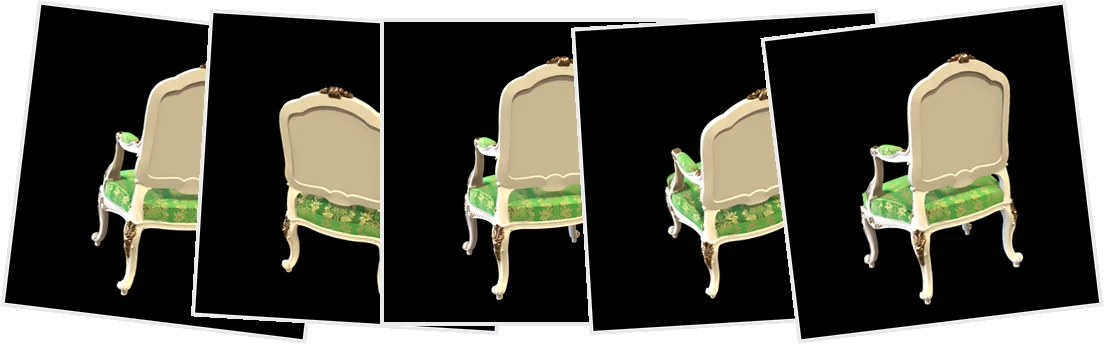
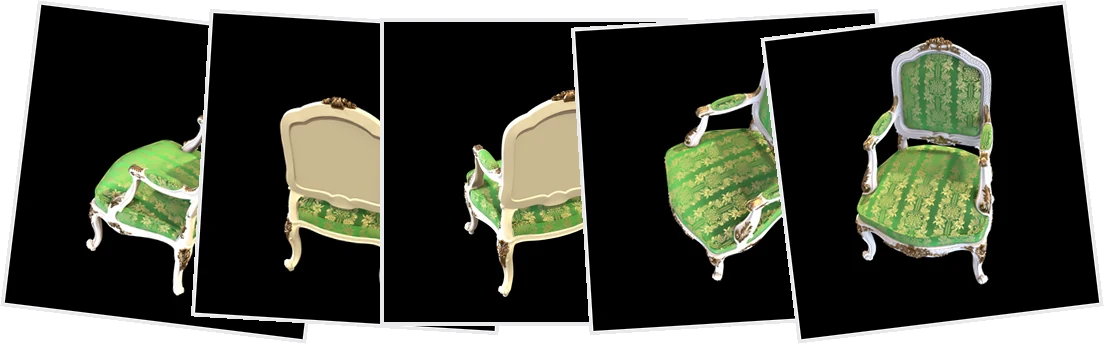
Apply EXIF orientation to the input stacks, and spread the picks
The framed painting's cards were on their side. The capture writes the sensor's
own landscape frame plus an Orientation tag, and PIL honours neither on its
own, so every portrait photo in that set came through rotated 90 degrees.
`ImageOps.exif_transpose` on the way in fixes it; the other three sets carry no
tag and are unchanged.

While there, the five cards were bunching: taking the top five by subject
coverage picks consecutive frames of a slow orbit, which score alike, so three
of the painting's cards were nearly the same view. Now the half that shows
least of the subject is dropped and five are taken evenly across what is left,
which keeps the near-empty NeRF frames out while still reading as a walk around
the subject.

The stack also gets a fixed 170px box rather than a fixed width. A portrait
capture makes a taller pile than a square NeRF frame, and letting the height
follow moved the stage down the page every time the subject changed.

Claude-Session: https://claude.ai/code/session_01U7wbbTcRuDo5rxkXFWPuBM

diff --git a/pages/index.html b/pages/index.html
@@ -41,7 +41,10 @@
   /* --- what it was made from, above what it became ----------------------- */
   figure { margin: 0 0 34px; }
   #provenance { display: grid; justify-items: center; gap: 6px; margin-bottom: 2px; }
-  #inputs { display: block; width: min(548px, 100%); height: auto; }
+  /* A fixed box, not a fixed width: the stacks differ in aspect (a portrait capture
+     makes a taller pile than a square NeRF frame) and letting the height follow makes
+     the stage jump every time the subject changes. */
+  #inputs { display: block; width: min(548px, 100%); height: 170px; object-fit: contain; }
   #capture { color: var(--muted); font: 11px/1.4 ui-monospace, SFMono-Regular, Menlo, Consolas, monospace; }
   #arrow { width: 22px; height: 30px; margin: 2px 0 4px; color: var(--muted); opacity: 0.7; }
 

diff --git a/tools/make_input_stacks.py b/tools/make_input_stacks.py
@@ -17,7 +17,7 @@ import argparse
 from pathlib import Path
 
 import numpy as np
-from PIL import Image
+from PIL import Image, ImageOps
 
 ROOT = Path(__file__).resolve().parent.parent
 DEFAULT_RUNS = ROOT.parent / "3d_recon_sh_texture" / "data" / "runs"
@@ -39,7 +39,10 @@ SUFFIXES = {".jpg", ".jpeg", ".png"}
 
 
 def load(path: Path) -> Image.Image:
-    image = Image.open(path)
+    # exif_transpose first: a phone writes the sensor's own landscape frame plus an
+    # Orientation tag, and PIL honours neither on its own - without this every portrait
+    # capture ends up on its side.
+    image = ImageOps.exif_transpose(Image.open(path))
     if image.mode not in ("RGBA", "LA", "P"):
         return image.convert("RGB")
     image = image.convert("RGBA")
@@ -51,7 +54,7 @@ def load(path: Path) -> Image.Image:
 def subject_score(path: Path) -> float:
     """How much subject a frame shows: matte coverage where there is one, else the
     spread of its luminance, which on these captures tracks the same thing."""
-    probe = Image.open(path)
+    probe = ImageOps.exif_transpose(Image.open(path))
     probe.thumbnail((160, 160), Image.NEAREST)
     if probe.mode in ("RGBA", "LA", "P"):
         return float(np.asarray(probe.convert("RGBA").getchannel("A"), dtype=np.float32).mean() / 255)
@@ -95,7 +98,13 @@ def main() -> None:
         # Score a spread of candidates rather than all of them: at 100 frames the
         # ranking is the same and it reads a twentieth of the pixels.
         probes = [files[round(i * (len(files) - 1) / 23)] for i in range(24)]
-        chosen = sorted(sorted(probes, key=subject_score, reverse=True)[: len(ANGLES)], key=files.index)
+        # Drop the half that shows least of the subject, then take five spread evenly
+        # across what is left. Taking the top five outright bunches them: consecutive
+        # frames of a slow orbit score alike, and five near-identical cards look like a
+        # mistake rather than a capture.
+        scores = sorted(probes, key=subject_score, reverse=True)
+        keep = sorted(scores[: max(len(ANGLES), len(scores) // 2)], key=files.index)
+        chosen = [keep[round(i * (len(keep) - 1) / (len(ANGLES) - 1))] for i in range(len(ANGLES))]
         image = stack(chosen)
         target = args.out / f"{name}.webp"
         image.save(target, "WEBP", quality=88, method=6)
